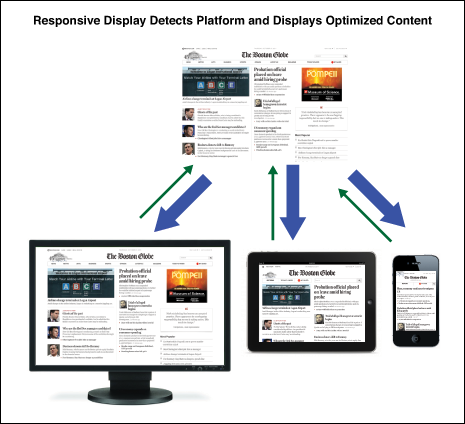
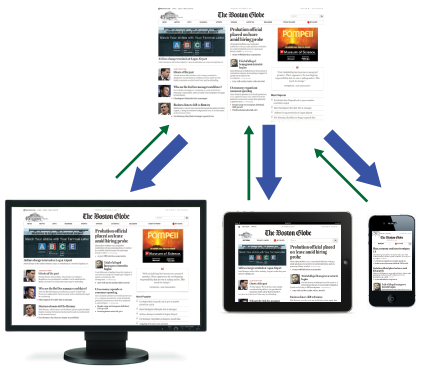
-Added a few more slides, specifically around Responsive Design

diff --git a/twitterMonitor/web-app/css/main.css b/twitterMonitor/web-app/css/main.css
@@ -409,3 +409,8 @@ img.rounded {
     width: 35rem;
 }
 
+#futureProof_5 img.rounded {
+    width:35rem;
+    margin-left:-17.5rem;
+}
+
